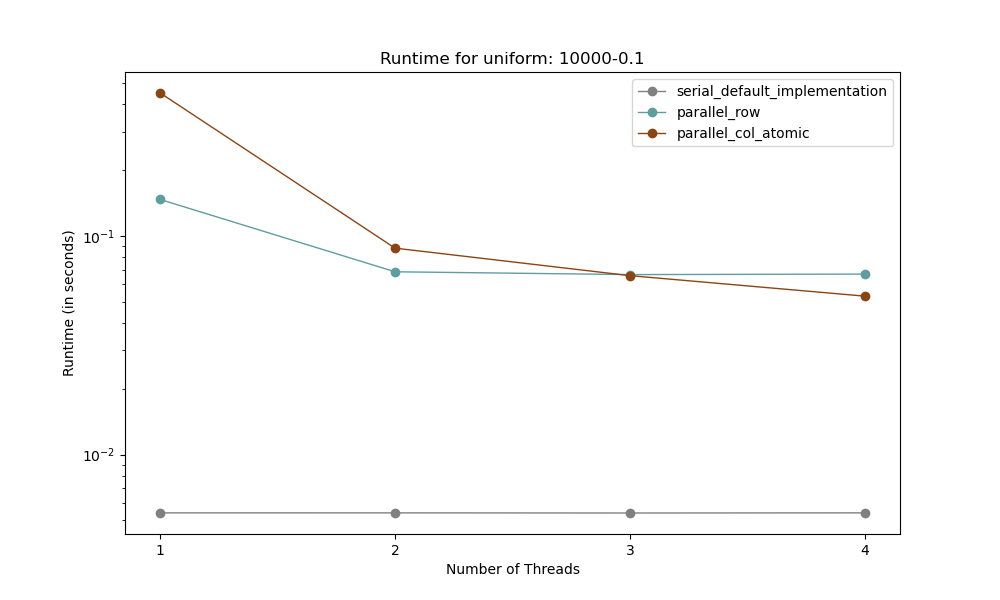
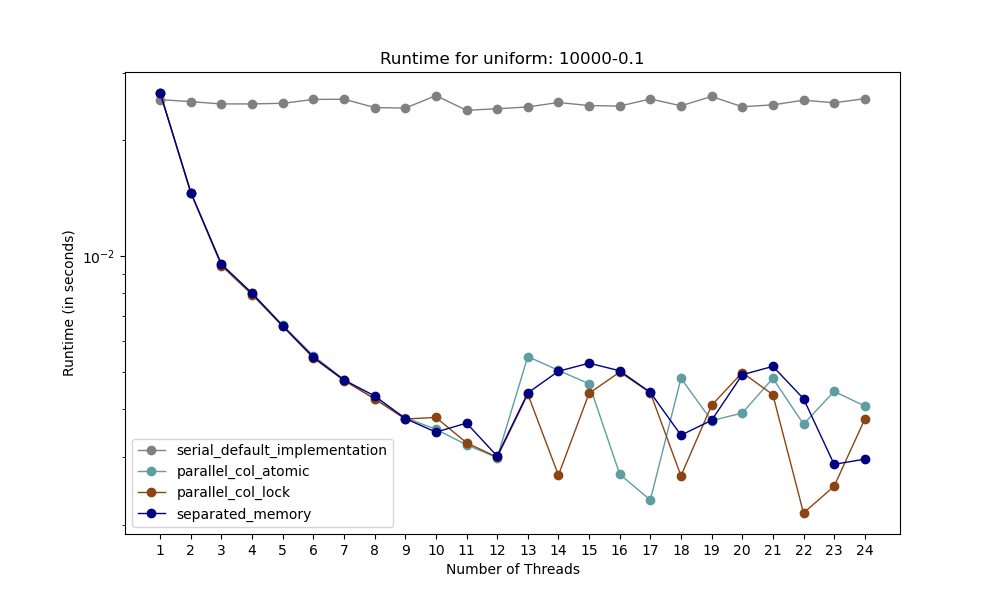
Plot result

diff --git a/parallel/spmv/graph.py b/parallel/spmv/graph.py
@@ -8,7 +8,7 @@ SPEEDUP_FOLDER = "speedup"
 RUNTIME_FOLDER = "runtime"
 RESULTS_FOLDER = "results"
 
-NTHREADS = [1, 2, 3, 4]
+NTHREADS = [i + 1 for i in range(24)]
 
 DEFAULT_METHOD = "serial_default_implementation"
 METHODS = [
